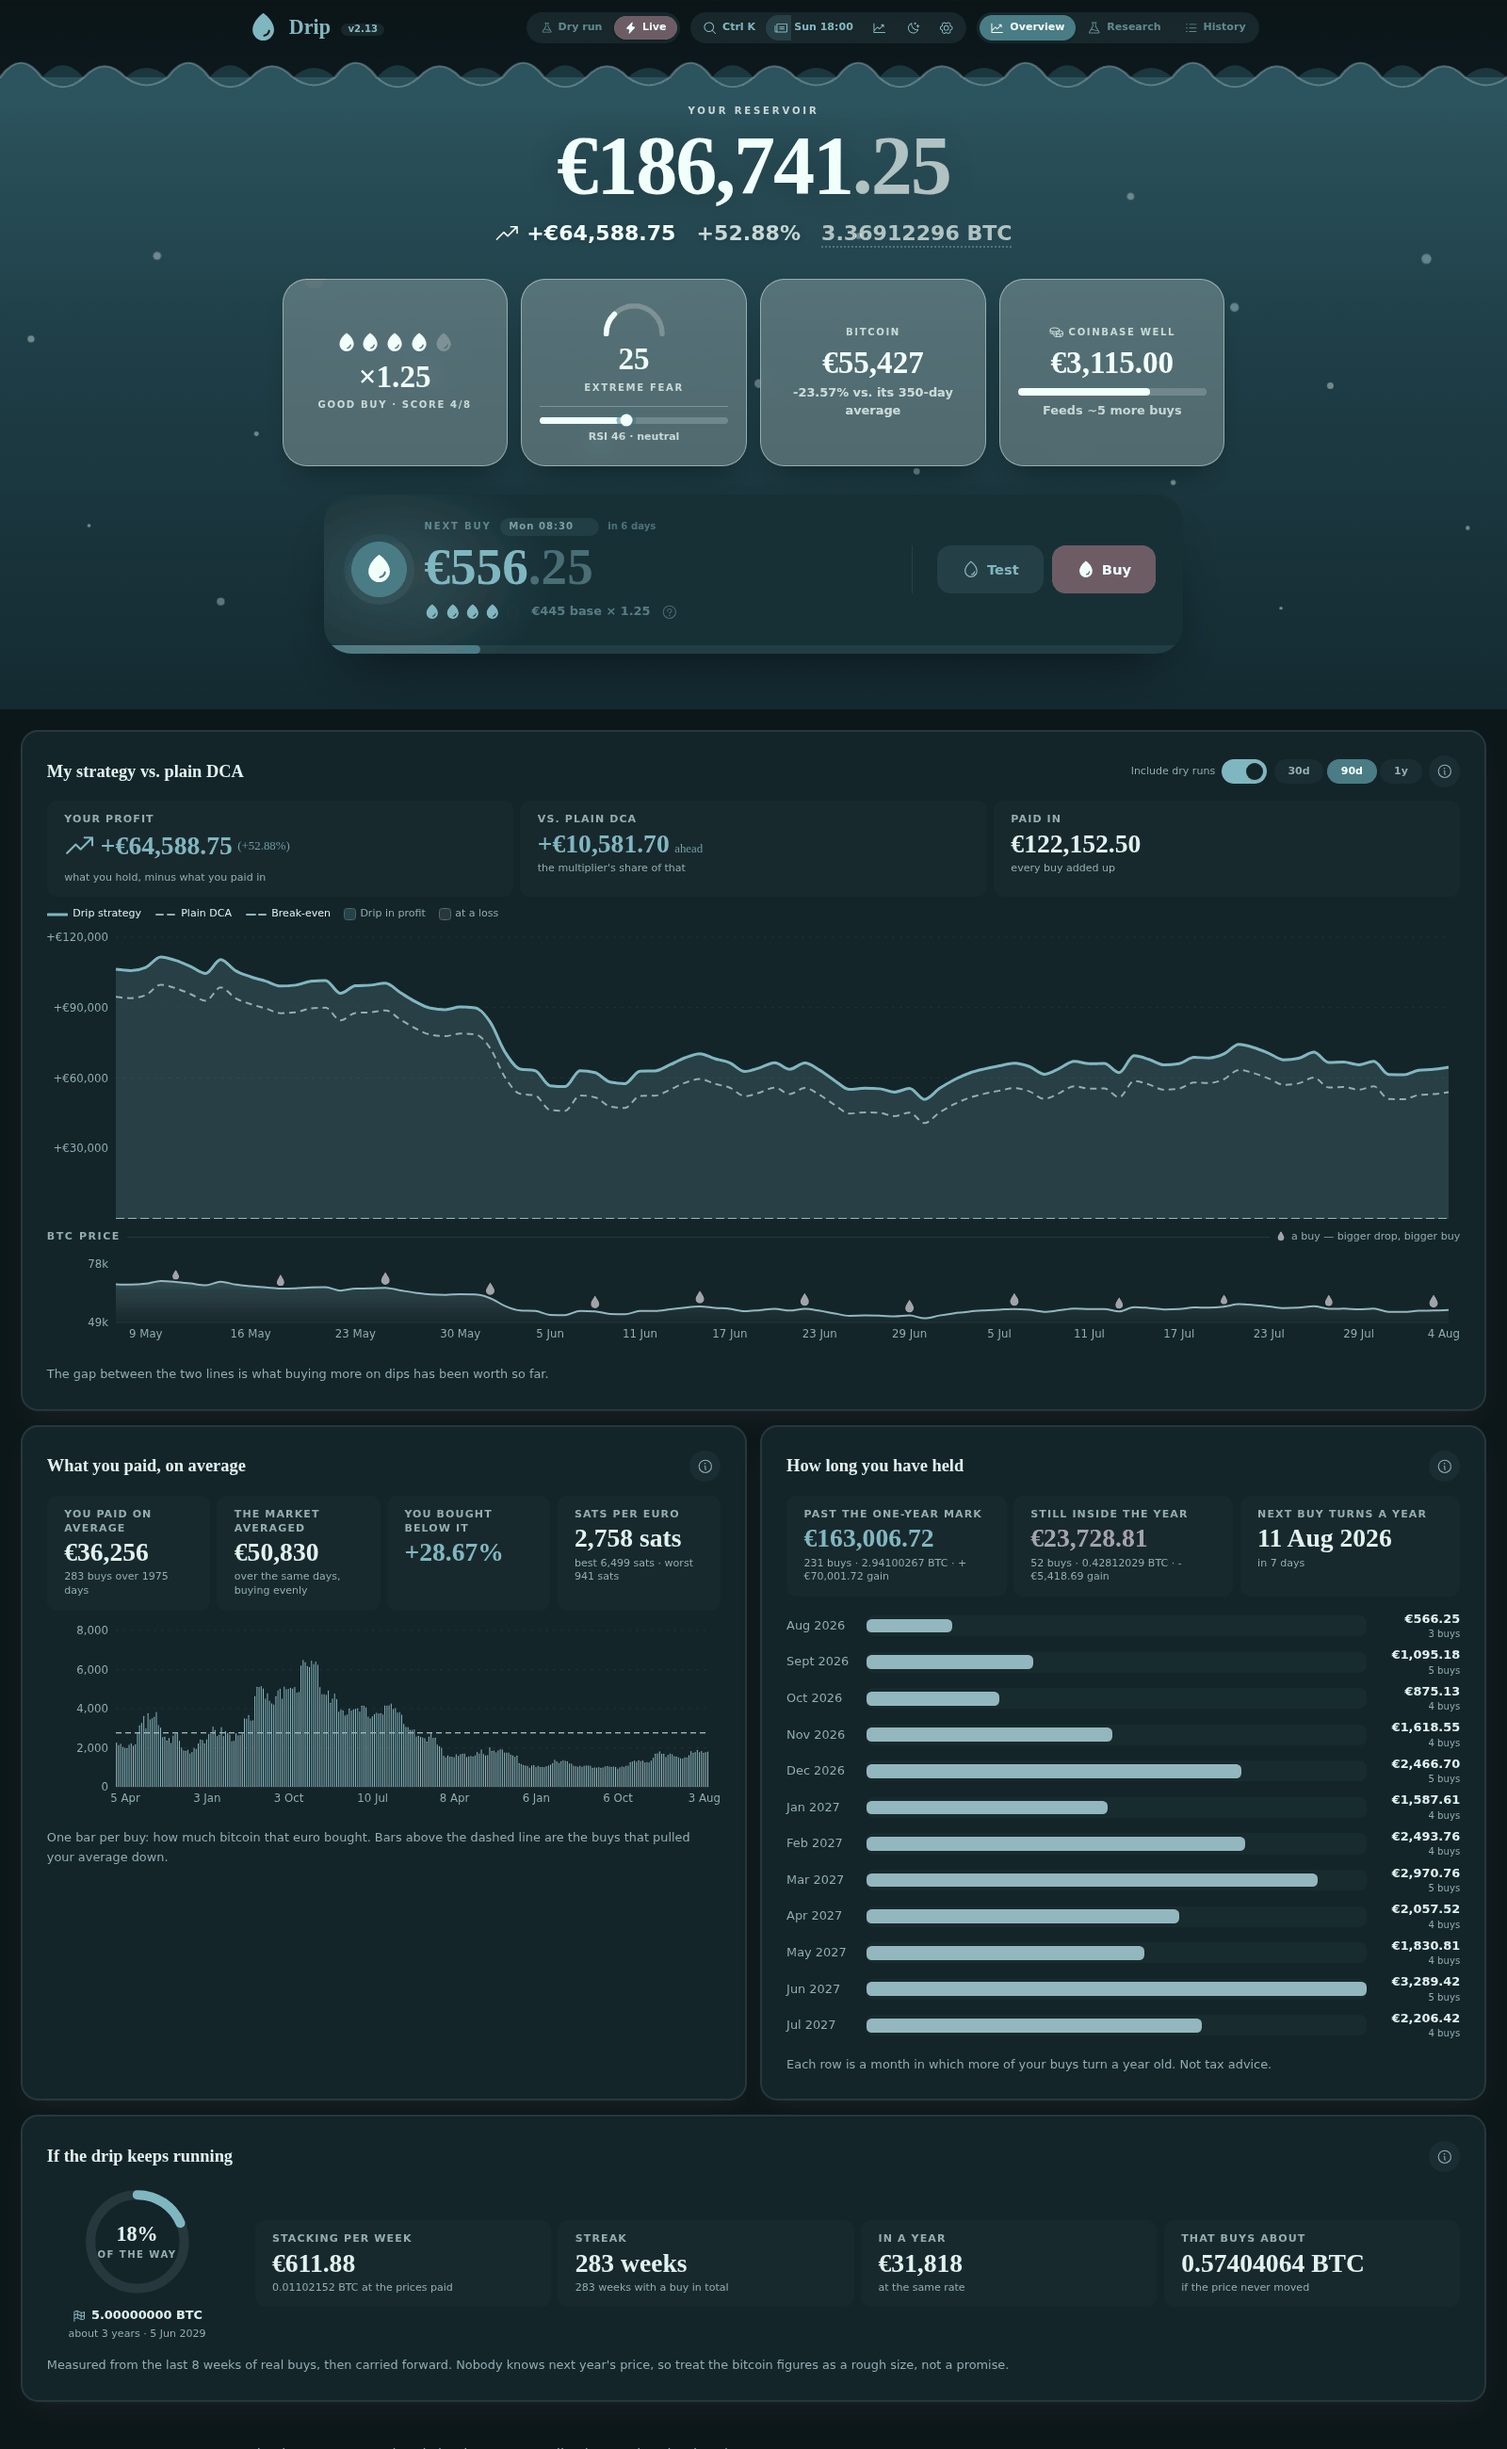
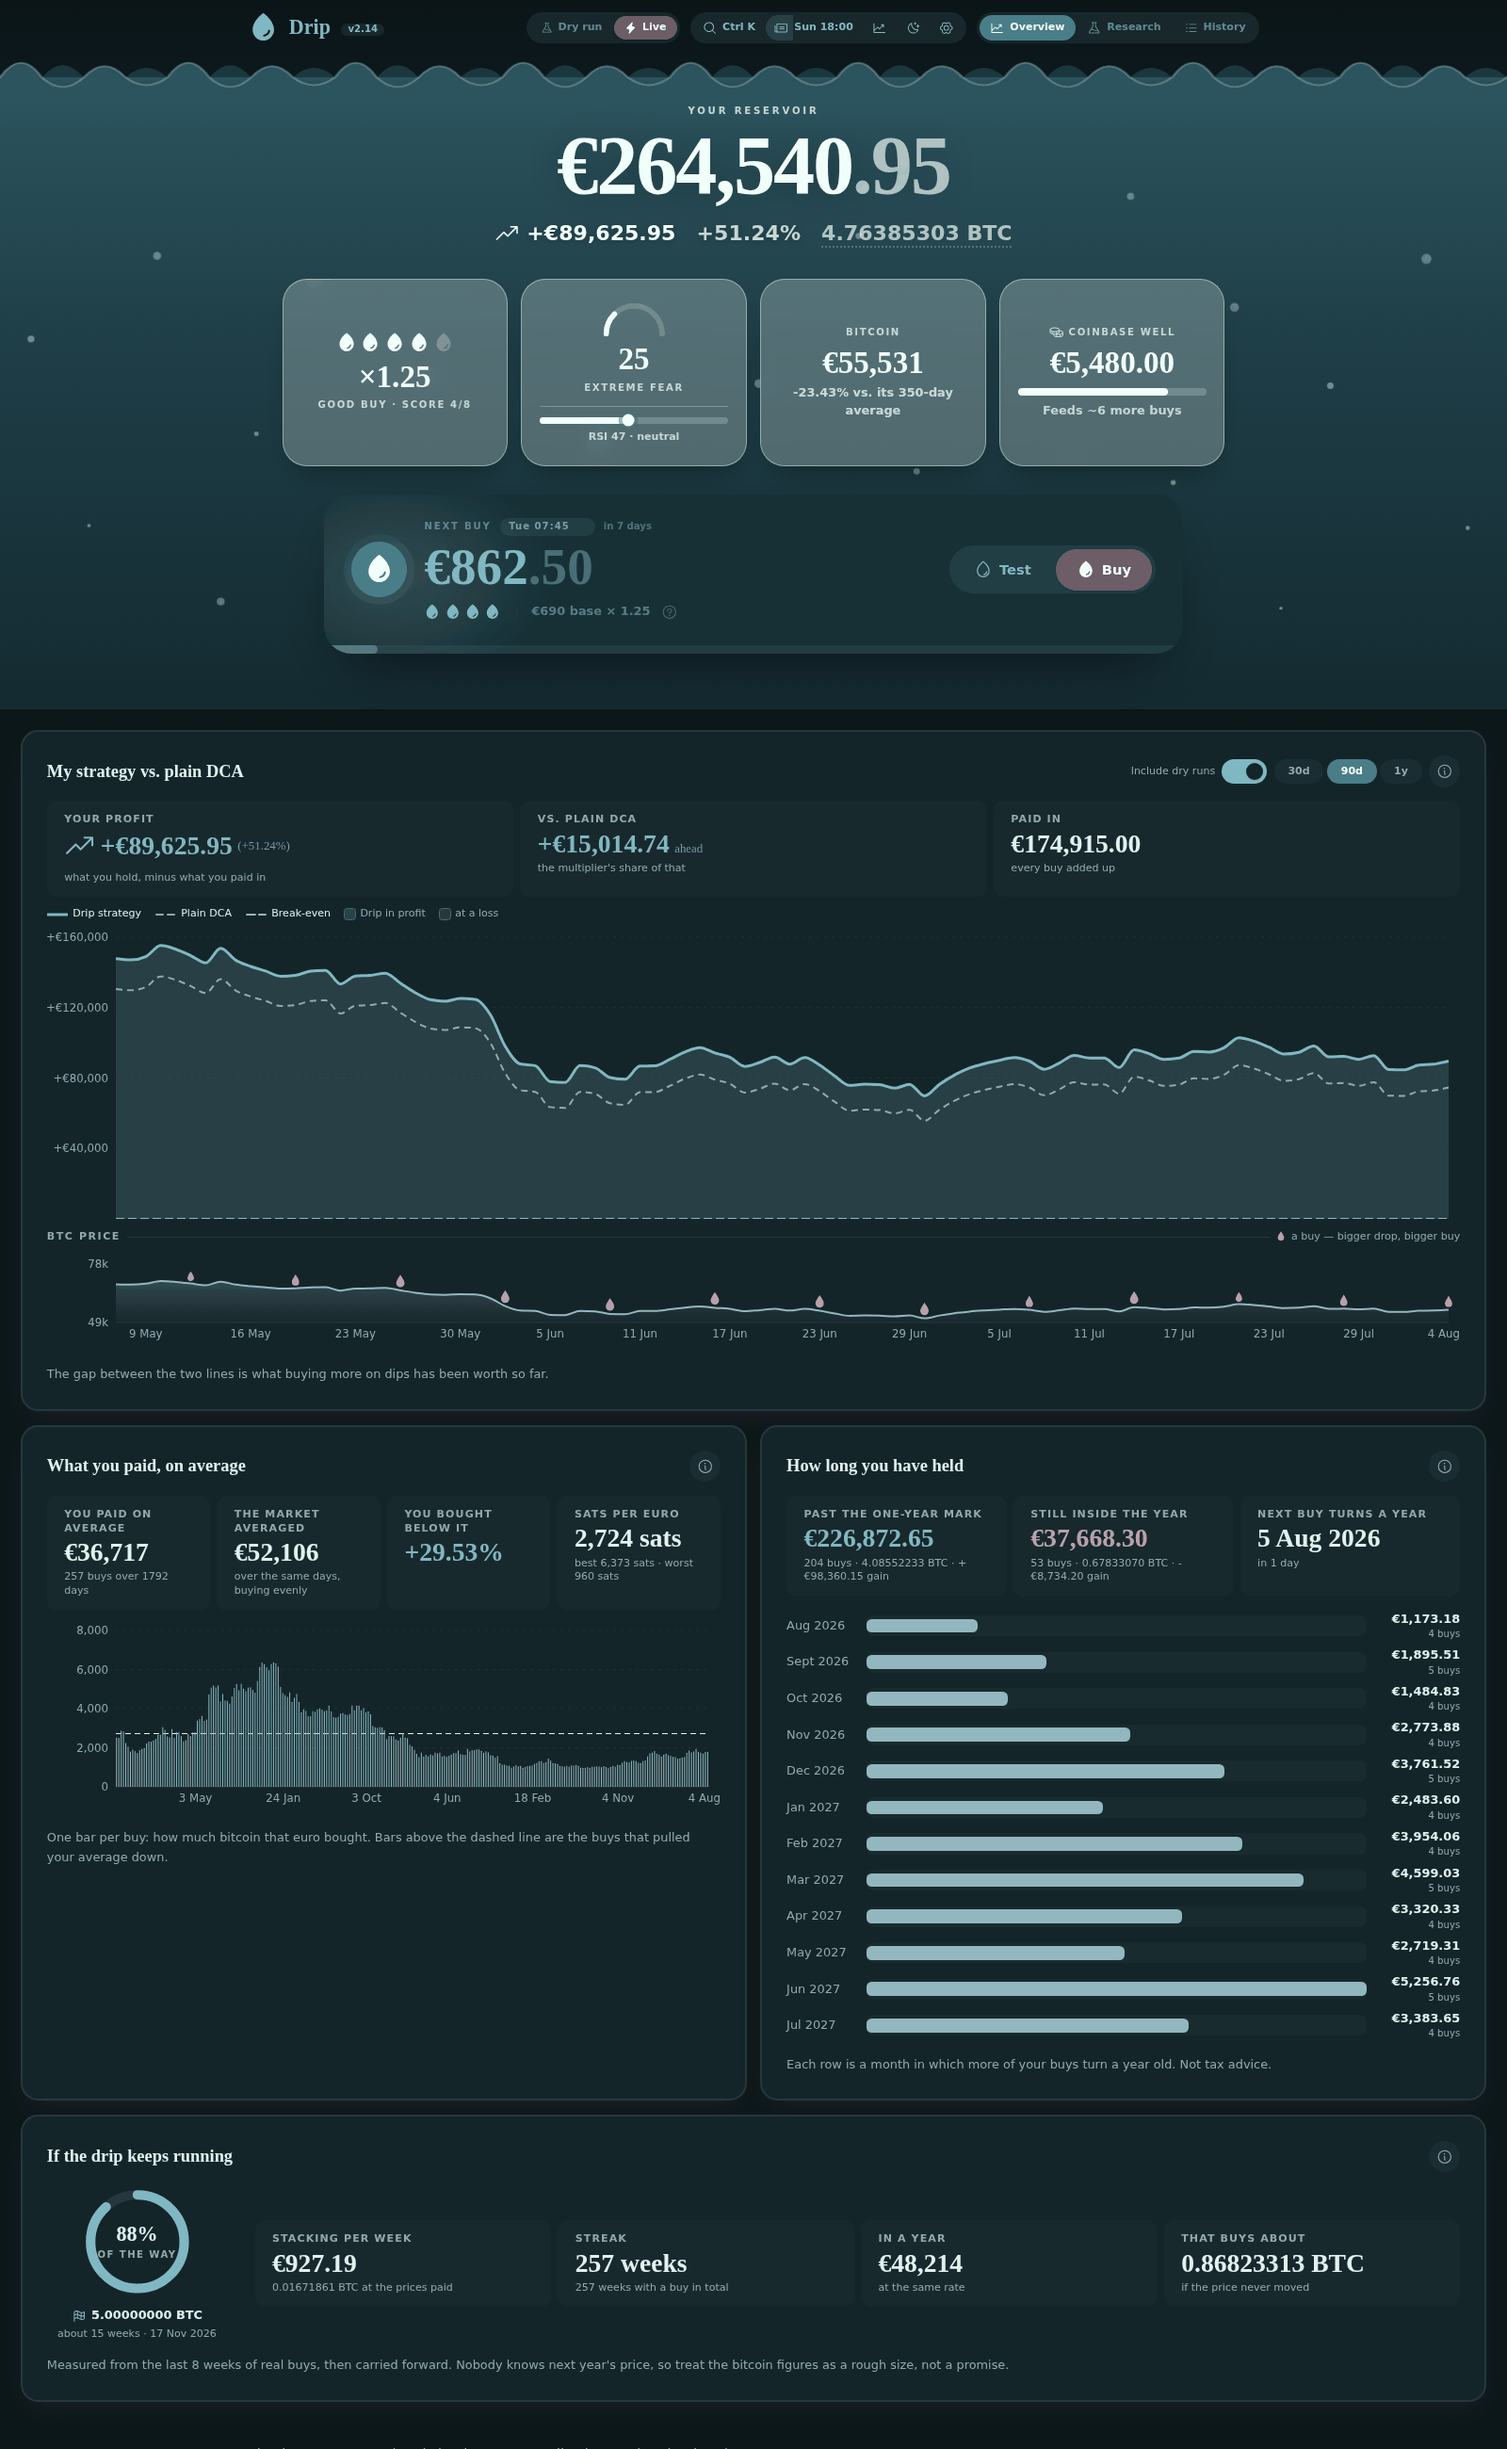
upd: test and buy share one tray

diff --git a/frontend/src/components/header/NextBuyActions.tsx b/frontend/src/components/header/NextBuyActions.tsx
@@ -28,8 +28,13 @@ const PAUSE_OPTIONS = [
 
 const SAVED_FLASH_MS = 1800;
 
+/** The two money actions sit in one capsule — the group is the shape, so no
+ *  rule is needed to say they belong together. `p-1` plus `h-12` keeps the
+ *  tray at the 3.5rem the buttons used to stand at on their own. */
+const ACTION_TRAY =
+  "flex w-full flex-none items-center gap-1 rounded-full bg-teal/10 p-1 md:ml-auto md:w-auto";
 const ACTION =
-  "flex h-14 items-center justify-center gap-2 rounded-2xl px-7 text-base font-bold transition focus-visible:outline-2 focus-visible:outline-offset-2 disabled:opacity-60";
+  "flex h-12 items-center justify-center gap-2 rounded-full px-6 text-base font-bold transition focus-visible:outline-2 focus-visible:outline-offset-2 disabled:opacity-60";
 const CAPTION = "text-2xs font-bold uppercase tracking-[0.18em] text-teal/60";
 
 /** A value you can click to change it — the pencil only surfaces on hover, so
@@ -472,15 +477,16 @@ export default function NextBuyActions({
           </div>
         </div>
 
-        {/* Right: everything that can move money. Both wear the brand's drop —
-            the same mark as the header's — hollow for a run that spends nothing,
-            filled for one that does. */}
-        <div className="flex flex-none items-center gap-2.5 max-md:justify-end md:ml-auto md:border-l md:border-teal/12 md:pl-7">
+        {/* Right: everything that can move money, in one tray. Both wear the
+            brand's drop — the same mark as the header's — hollow for a run that
+            spends nothing, filled for one that does; only the filled one is a
+            solid button, which is the whole difference the group has to say. */}
+        <div className={ACTION_TRAY}>
           <button
             onClick={onTestBuy}
             disabled={running}
             title="Run the strategy once without spending anything"
-            className={`${ACTION} flex-1 bg-teal/12 text-teal hover:bg-teal/20 focus-visible:outline-teal md:flex-none`}
+            className={`${ACTION} flex-1 text-teal hover:bg-teal/15 focus-visible:outline-teal md:flex-none`}
           >
             <DropIcon className="text-lg" /> {running ? "Testing…" : "Test"}
           </button>
@@ -488,7 +494,7 @@ export default function NextBuyActions({
             onClick={onBuy}
             disabled={buying}
             title={live ? "Place a real market buy" : "Place a dry-run buy"}
-            className={`${ACTION} flex-1 md:flex-none ${
+            className={`${ACTION} flex-1 shadow-sm md:flex-none ${
               live
                 ? "bg-rose-deep text-cream hover:opacity-90 focus-visible:outline-rose"
                 : "bg-teal-deep text-cream hover:bg-teal-deep/90 focus-visible:outline-teal"

diff --git a/frontend/src/version.ts b/frontend/src/version.ts
@@ -17,6 +17,13 @@ export interface Release {
 
 export const CHANGELOG: Release[] = [
   {
+    version: "2.14",
+    date: "2026-08-04",
+    changes: [
+      "Test and Buy now sit together in one rounded tray instead of being split off by a dividing line",
+    ],
+  },
+  {
     version: "2.13",
     date: "2026-08-04",
     changes: [

diff --git a/README.md b/README.md
@@ -12,12 +12,12 @@ explicit, confirmed opt-in.
 
 *Example history, not a real account. Shown in the night theme; there is a day one too.*
 
-Your stack is a tank of water, and it fizzes at the strength of the week's signal -
-with the bubbles held mid-climb, rather than dropped, when motion is switched off.
+Your stack is a tank of water, and it fizzes at the strength of the week's signal.
 Underneath, the dashboard researches its own strategy, reports what you paid against
 the market, and carries the rate you stack at forward to the next round number of sats.
-Setting the drip happens on the next-buy card: click the amount, or the day and time;
-one drop runs through it, hollow on Test, which spends nothing.
+Setting the drip happens on the next-buy card: click the amount, or the day and time.
+Test and Buy sit together in one tray at its right, sharing the brand's drop - hollow
+on Test, which spends nothing.
 Everything else lives in three groups in the bar at the top - mode, tools, sections -
 and `Ctrl+K` reaches all of it, keys included, so the Pi needs no shell after the first
 install. Once a week the whole thing arrives on Discord.
